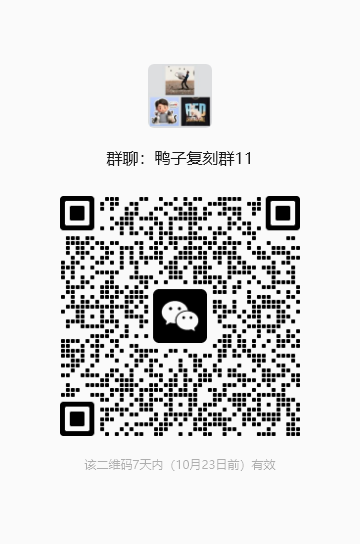
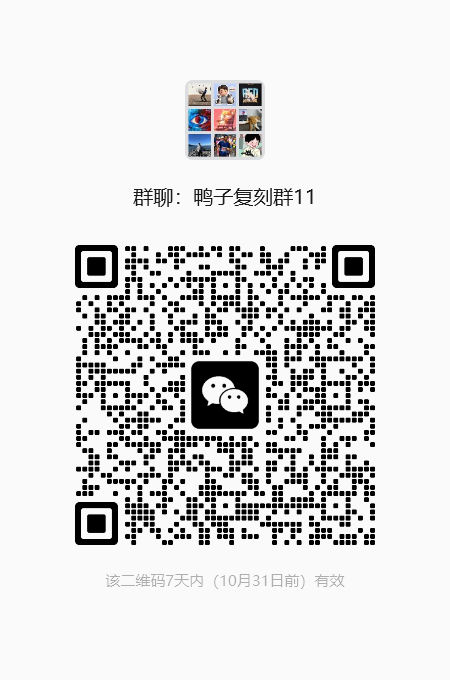
docs: refresh group 11 WeChat QR code through October 31

diff --git a/README.en.md b/README.en.md
@@ -94,7 +94,7 @@ The code below is for **Duck Replica Group 11** (WeChat disables QR joins once a
 <div align="center">
   <img src="assets/wechat-group-11.png" alt="Duck Replica Group 11 WeChat QR code" width="280">
   <br>
-  <sub><b>Duck Replica Group 11 · expires 2026-10-23</b> — WeChat group codes are valid for 7 days<br>
+  <sub><b>Duck Replica Group 11 · QR code valid before 2026-10-31</b> — WeChat group codes are valid for 7 days<br>
   If it has expired, open an <a href="https://github.com/fanhao375/microduck-replica/issues">issue</a> and I will post a fresh one</sub>
 </div>
 

diff --git a/README.md b/README.md
@@ -78,7 +78,7 @@ MJCF 里包含了完整的运动学树：每个零件挂在谁身上、相对位
 <div align="center">
   <img src="assets/wechat-group-11.png" alt="鸭子复刻群 11 微信二维码" width="280">
   <br>
-  <sub><b>鸭子复刻群 11 · 二维码有效期到 2026-10-23</b>（微信群码 7 天自动失效）<br>
+  <sub><b>鸭子复刻群 11 · 二维码在 2026-10-31 前有效</b>（微信群码 7 天自动失效）<br>
   过期了请开个 <a href="https://github.com/fanhao375/microduck-replica/issues">issue</a> 说一声，我会换上新的</sub>
 </div>
 
